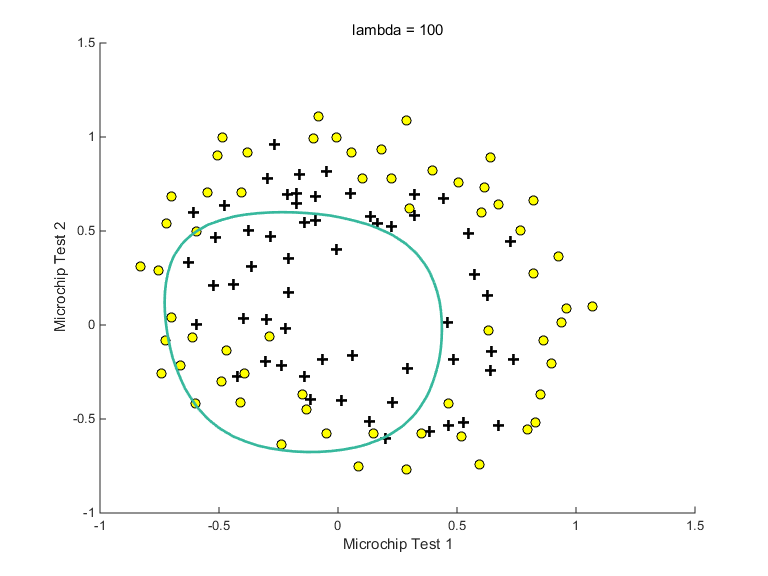
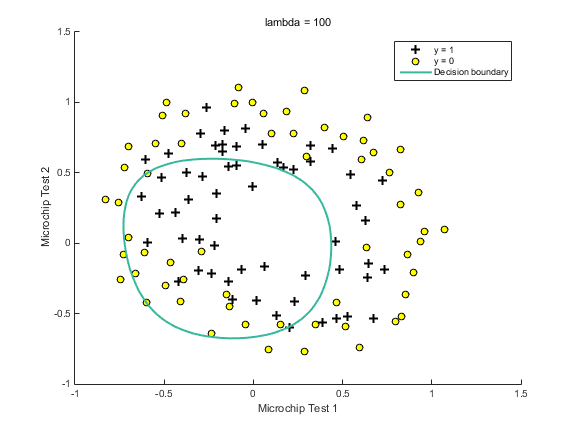
修改图像的分辨率

diff --git a/machine-learning-ex2/ex2/ex2_reg.m b/machine-learning-ex2/ex2/ex2_reg.m
@@ -126,7 +126,7 @@ for i = 1:length(lambda)
     xlabel('Microchip Test 1')
     ylabel('Microchip Test 2')
     
-    % legend('y = 1', 'y = 0', 'Decision boundary')
+    legend('y = 1', 'y = 0', 'Decision boundary')
     hold off;
     savePlot(sprintf('../../figure/ex2-%d Decision boundary on Microchip Test(lambda=%d).png', (3 + i), lambda(i)));
     % Compute accuracy on our training set

diff --git a/common/savePlot.m b/common/savePlot.m
@@ -1,7 +1,7 @@
 function savePlot(path)
     PRINT_TO_FILE = true;
     if (PRINT_TO_FILE) 
-        print('-dpng', path, '-r0');
+        print('-dpng', path, '-r72');
     end
 end
 
